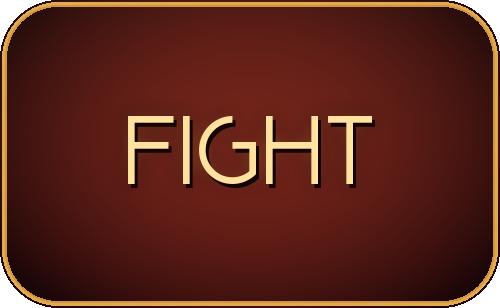
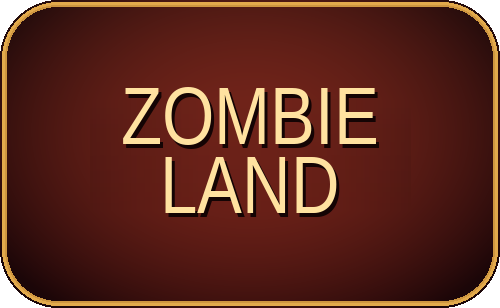
[Zombie Land] : Rename Fight game to Zombie Land

Changed region(s): [[0.24, 0.263, 0.78, 0.7305]]

diff --git a/main_app/applications/fight/MainGame.cpp b/main_app/applications/fight/MainGame.cpp
@@ -42,7 +42,7 @@ bool Fight::Init()
 
         if (!textureBackground || !textureBackground->Load())
         {
-            LOG_ERROR("Fight - Unable to load background layer \"{0}\" !", strPath);
+            LOG_ERROR("Zombie Land - Unable to load background layer \"{0}\" !", strPath);
             return false;
         }
 
@@ -53,7 +53,7 @@ bool Fight::Init()
 
     if (!m_textureSoldierShadow || !m_textureSoldierShadow->Load())
     {
-        LOG_ERROR("Fight - Unable to load soldier shadow !");
+        LOG_ERROR("Zombie Land - Unable to load soldier shadow !");
         return false;
     }
 
@@ -62,11 +62,11 @@ bool Fight::Init()
                                           g_unSoldierFrameHeight,
                                           g_fFpsSoldierIdle))
     {
-        LOG_ERROR("Fight - Unable to load soldier idle animation !");
+        LOG_ERROR("Zombie Land - Unable to load soldier idle animation !");
         return false;
     }
 
-    LOG_INFO("Fight - Initialized ...");
+    LOG_INFO("Zombie Land - Initialized ...");
     return true;
 }
 
@@ -80,7 +80,7 @@ bool Fight::Deinit()
         m_textureSoldierShadow.reset();
     }
 
-    LOG_WARN("Fight - Deinitialized ...");
+    LOG_WARN("Zombie Land - Deinitialized ...");
     return true;
 }
 
@@ -97,12 +97,12 @@ const std::string &Fight::GetAppName()
 
 void Fight::OnEnter()
 {
-    /*Fight only needs the Home button and the volume knob*/
+    /*Zombie Land only needs the Home button and the volume knob*/
     MainApp::GetInstance().ptrPanel->HideFields();
 
     m_animSoldierIdle.Start(g_fFpsSoldierIdle, EAnimPlayerPlayMode::ePlayLooped);
 
-    LOG_INFO("Fight - Transition to Application succeed");
+    LOG_INFO("Zombie Land - Transition to Application succeed");
 }
 
 void Fight::OnExit()
@@ -110,7 +110,7 @@ void Fight::OnExit()
     m_animSoldierIdle.Stop();
 
     MainApp::GetInstance().ptrPanel->ShowFields();
-    LOG_INFO("Fight - Exit from Application");
+    LOG_INFO("Zombie Land - Exit from Application");
 }
 
 void Fight::OnDraw()

diff --git a/main_app/app_select/AppSelect.cpp b/main_app/app_select/AppSelect.cpp
@@ -48,7 +48,7 @@ bool AppSelect::Init()
         return false;
     }
 
-    /*Keep the existing three apps in the first row and place Fight in the
+    /*Keep the existing three apps in the first row and place Zombie Land in the
       second row under Kids Fantasy, based on the current screen size.*/
     Button *firstRowButtons[] = { &m_buttonKidsFantasy, &m_buttonRoulette, &m_buttonParticleBuilder };
 
@@ -99,7 +99,7 @@ bool AppSelect::Init()
     /*Register Client Particle Builder*/
     RegisterClient(EApps::eParticleBuilder, &m_ParticleBuilder);
 
-    /*Register Client Fight*/
+    /*Register Client Zombie Land*/
     RegisterClient(EApps::eFight, &m_Fight);
 
     /*Initalize all the applications*/

diff --git a/main_app/app_select/AppSelect.h b/main_app/app_select/AppSelect.h
@@ -59,7 +59,7 @@ private:
     /*Roulette Button*/
     Button m_buttonRoulette;
 
-    /*Fight Button*/
+    /*Zombie Land Button*/
     Button m_buttonFight;
 
     /*Kids Fantasy object*/
@@ -71,7 +71,7 @@ private:
     /*Roulette object;*/
     Roulette m_Roulette;
 
-    /*Fight object*/
+    /*Zombie Land object*/
     Fight m_Fight;
 
     /*Particle System Star Effect*/

diff --git a/main_app/applications/fight/MainGame.h b/main_app/applications/fight/MainGame.h
@@ -12,7 +12,7 @@ class Fight : public IApp, public ITimer
 {
 
 private:
-    std::string m_strAppName = "Fight";
+    std::string m_strAppName = "Zombie Land";
 
     /*Textures background layers, drawn from back to front*/
     std::vector<std::shared_ptr<Texture>> m_vecTexturesBackground;
